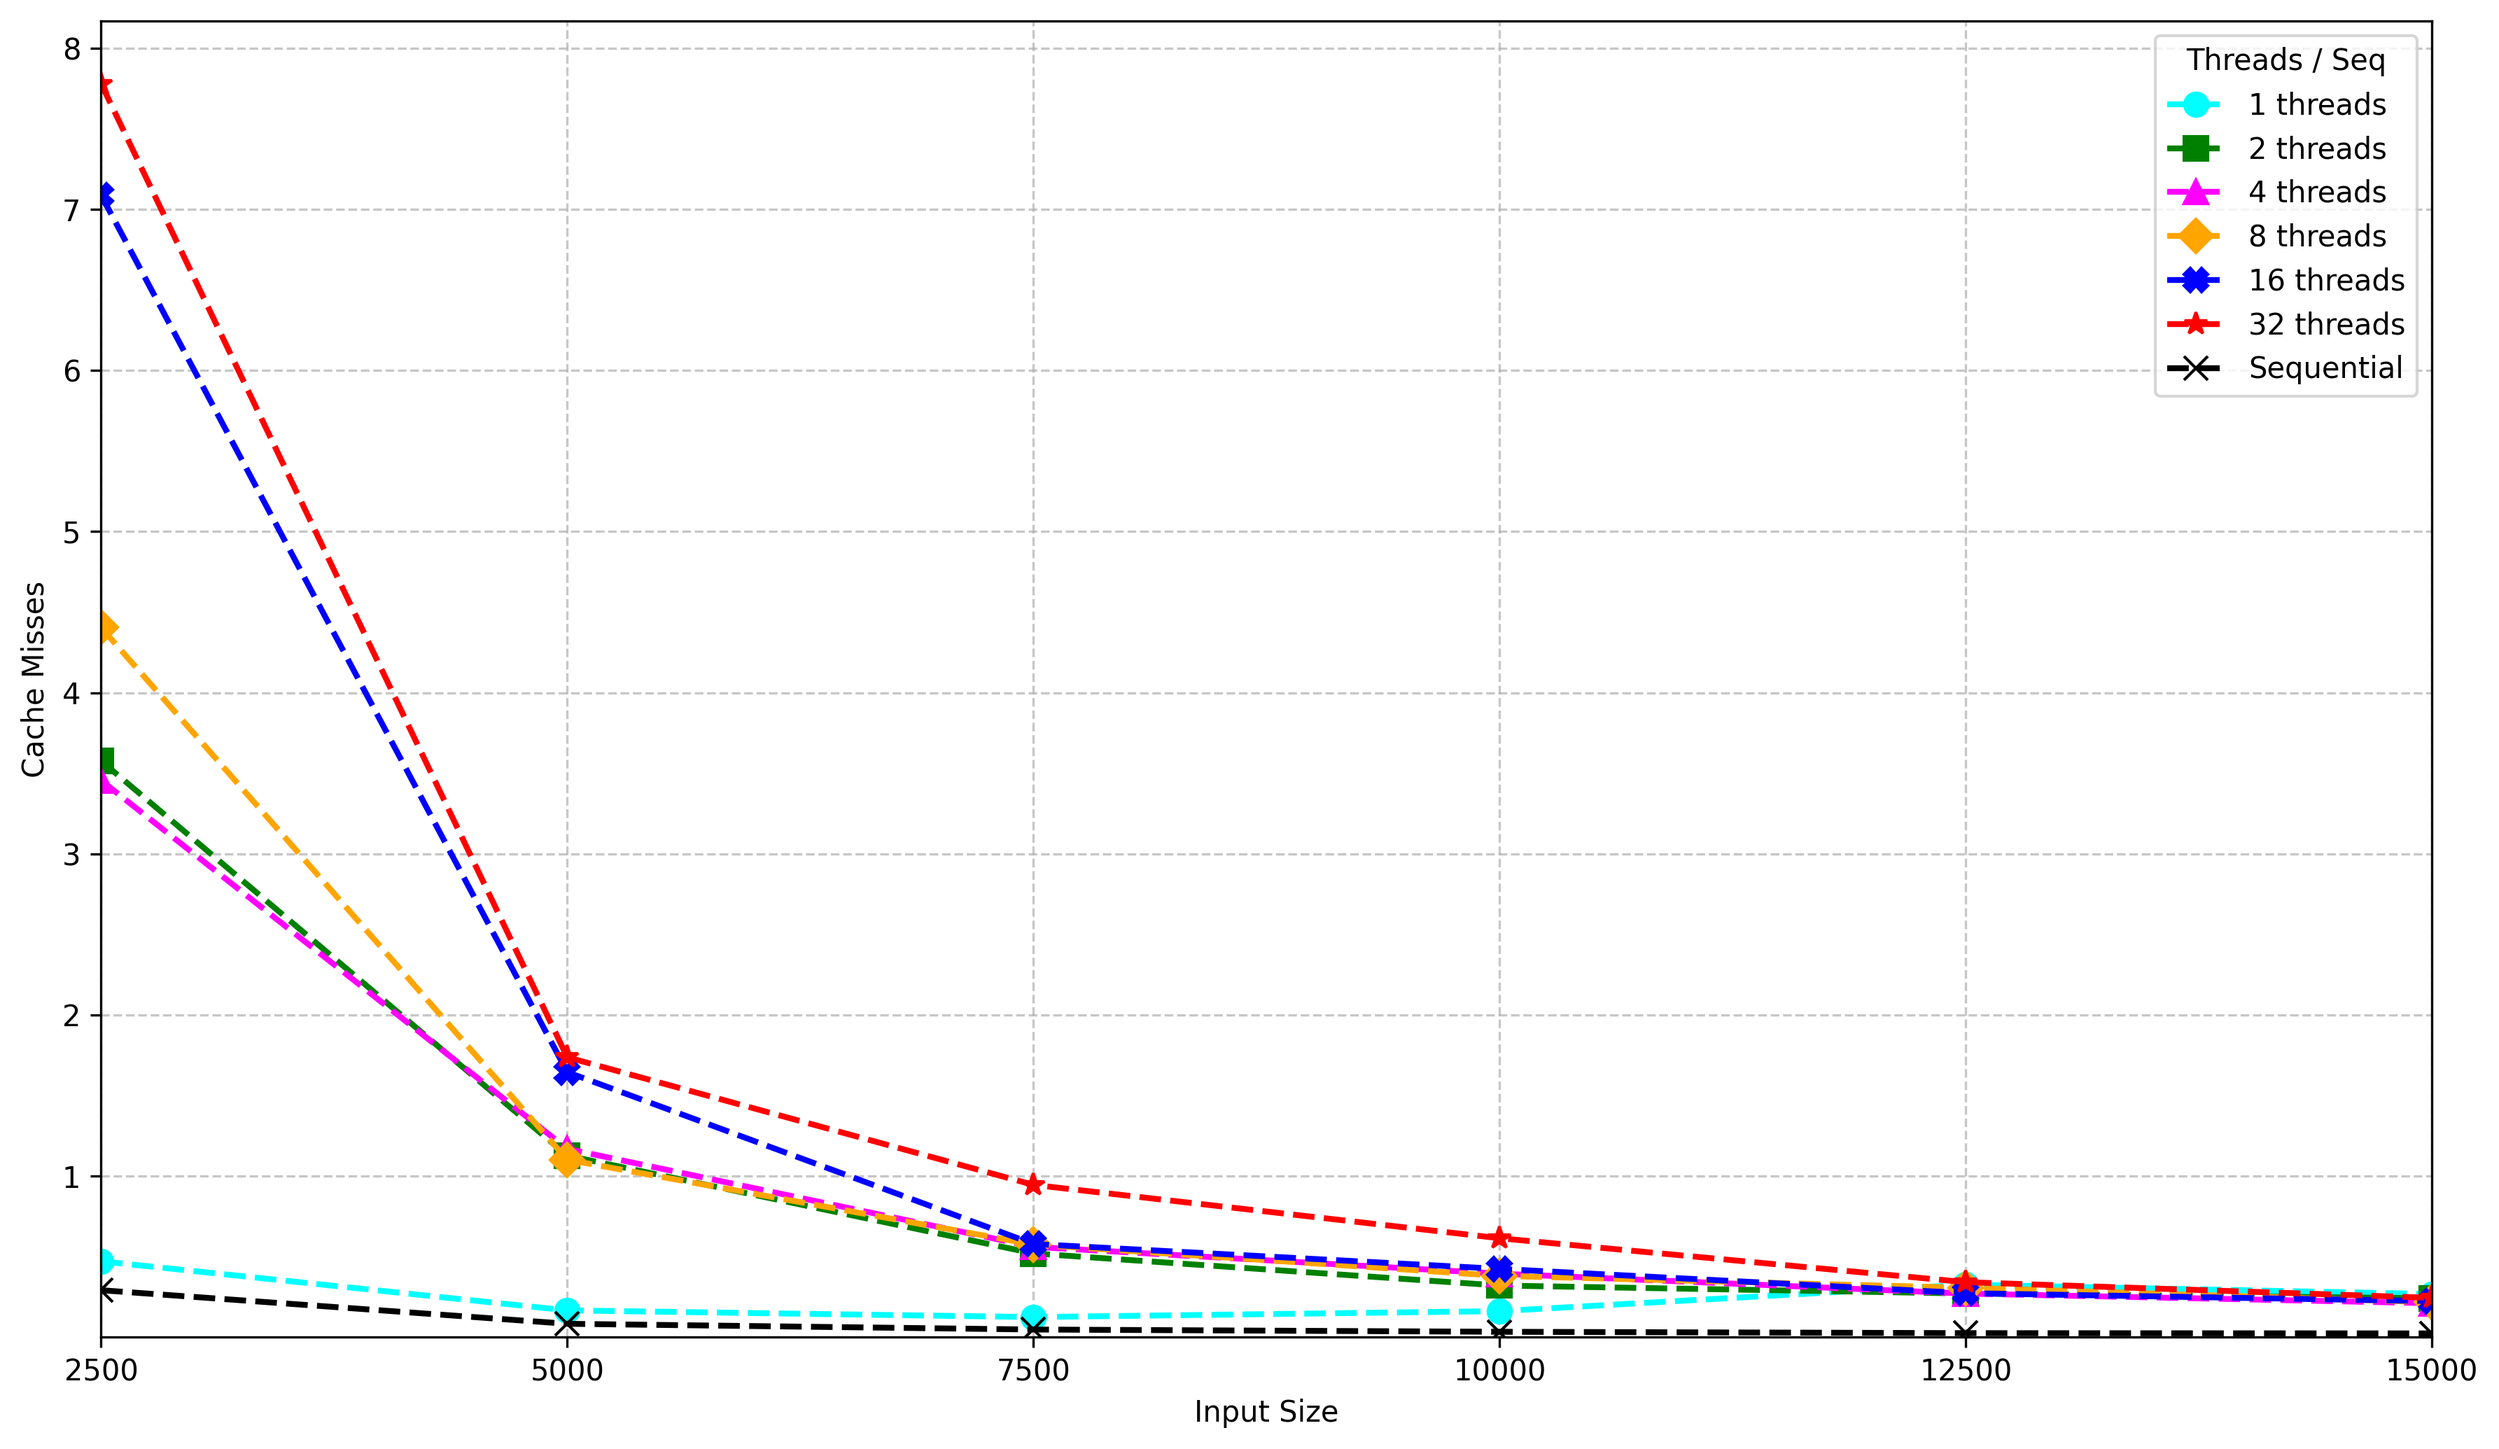
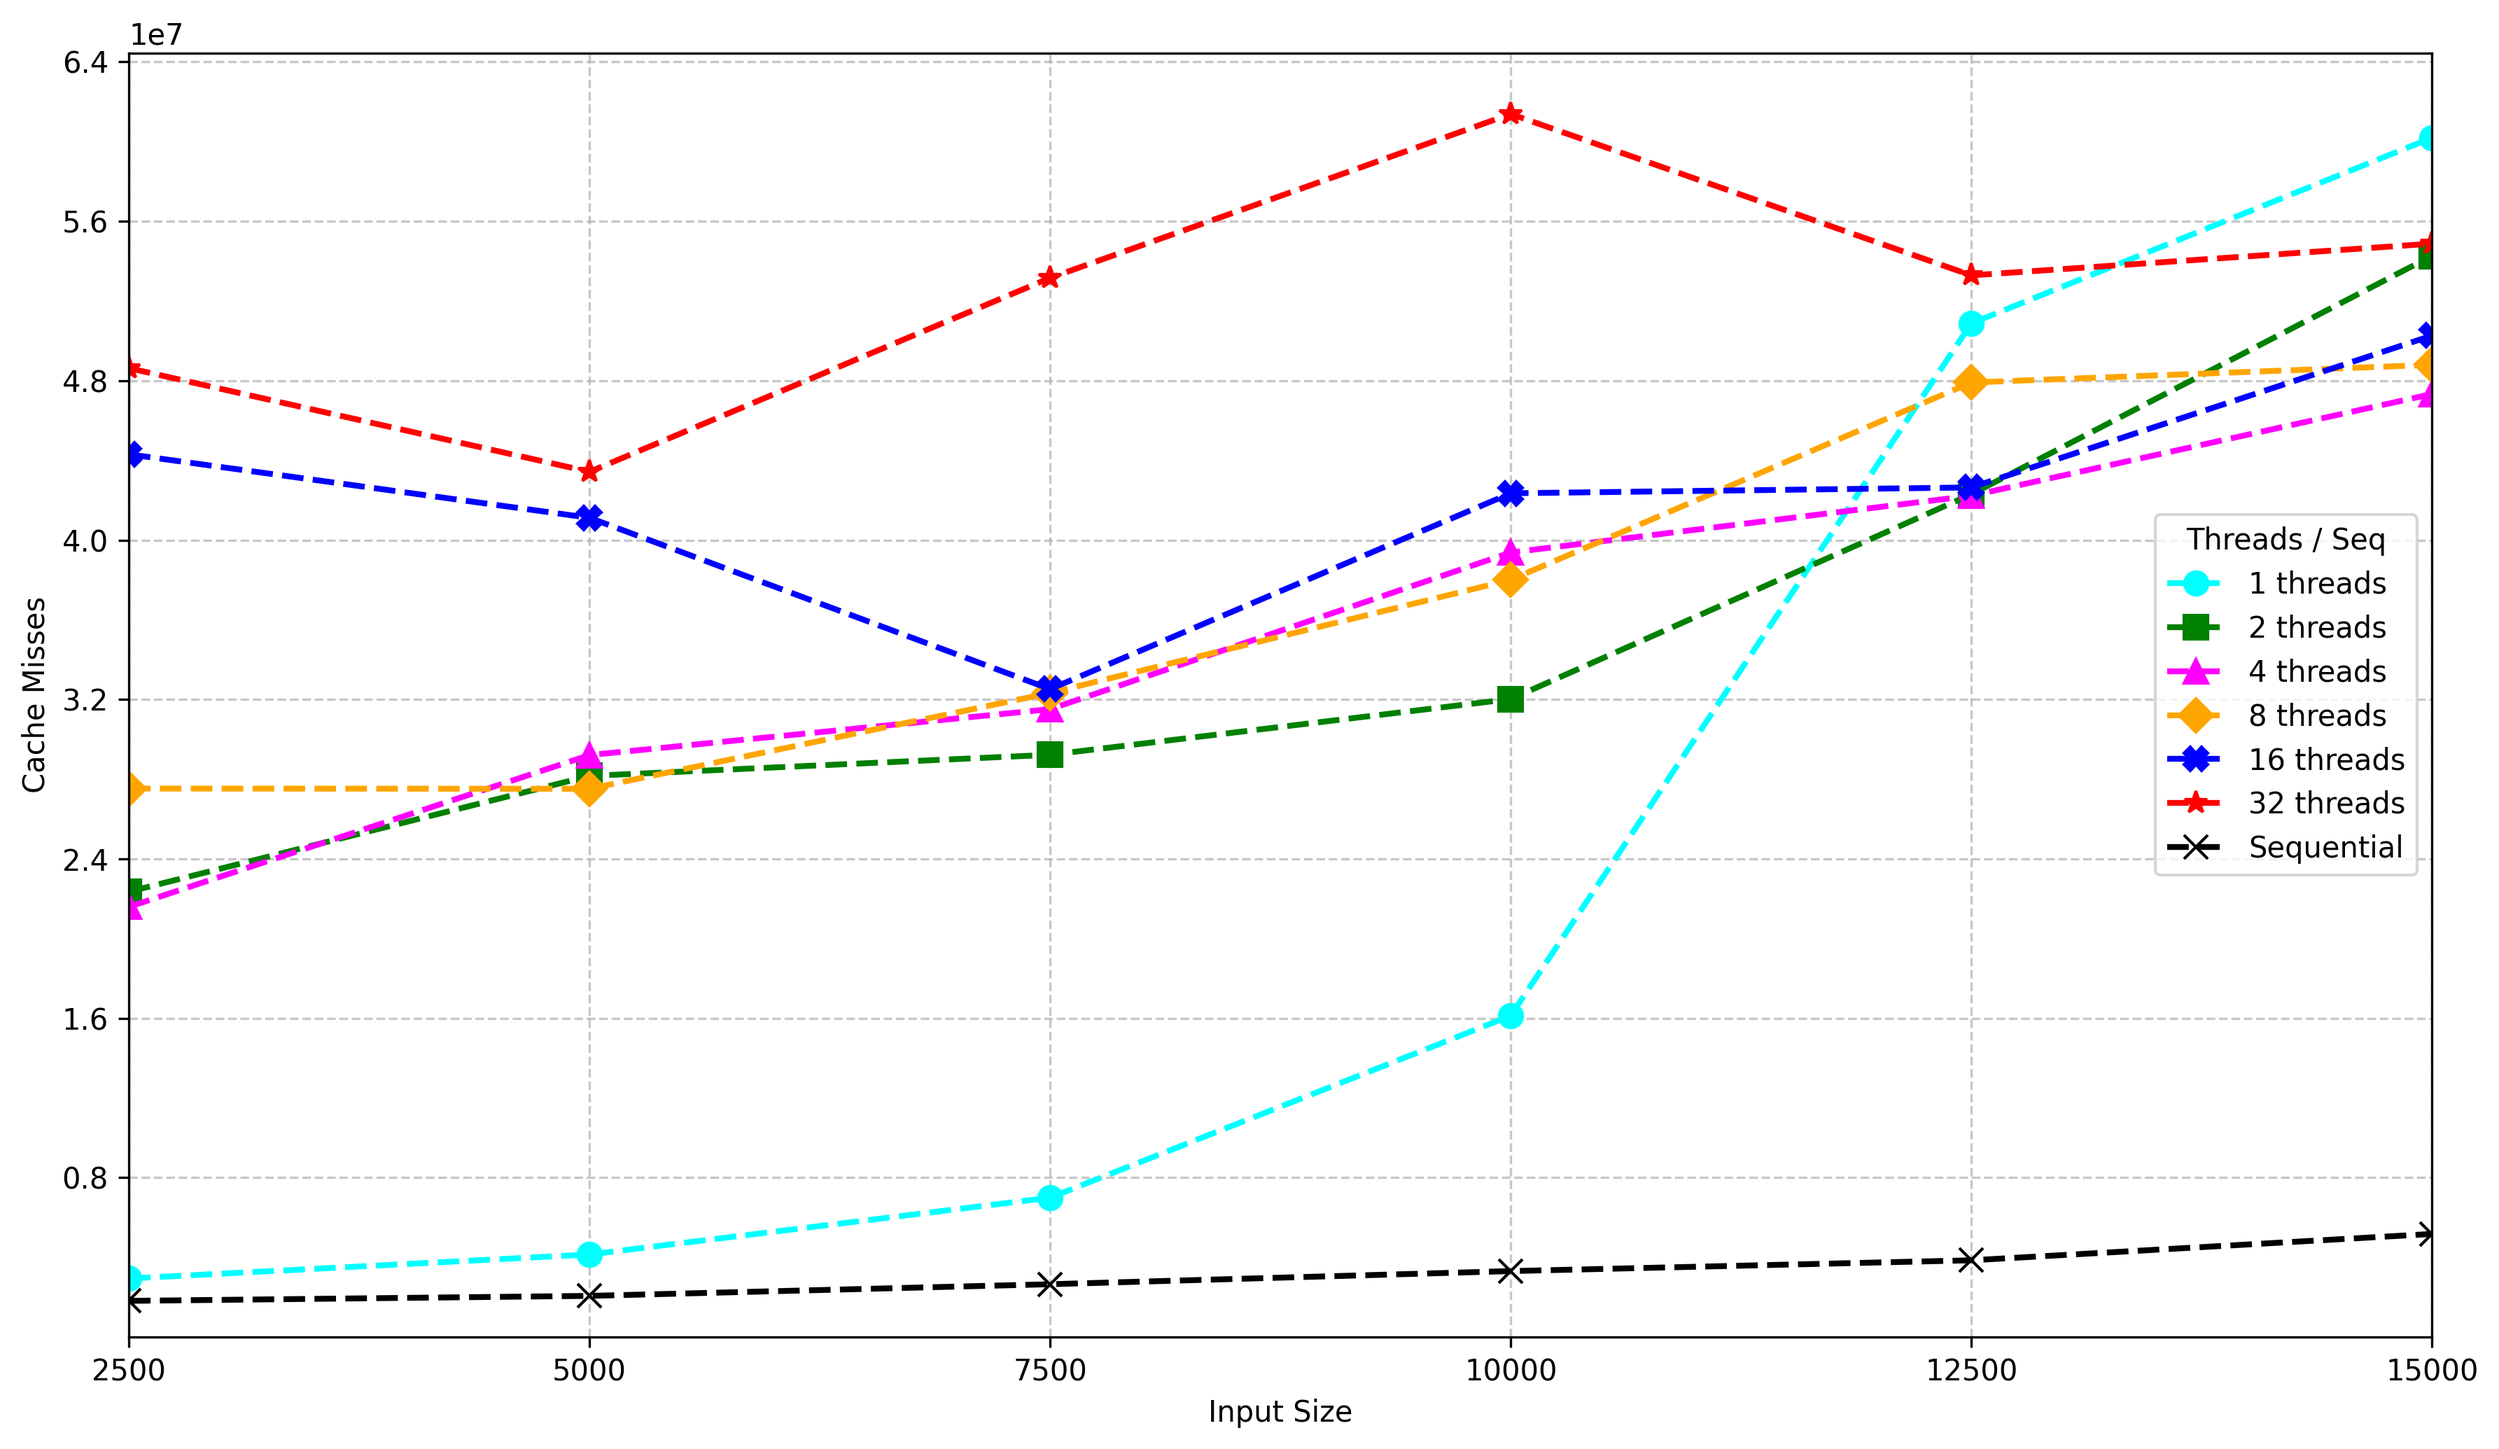
cache misses now displayed as raw cache misses and cache misses divided by input^2

diff --git a/Assignment2/plots/new_plot_stuff.py b/Assignment2/plots/new_plot_stuff.py
@@ -911,7 +911,15 @@ output_dir=None, independent_metrics=None, metrics_to_normalize_by_input=None):
 
         # --- labels & styling ---
         ax.set_xlabel("Input Size")
-        ax.set_ylabel(metric.replace("_", " ").title())
+
+        base_ylabel = metric.replace("_", " ").title()
+        if metric in metrics_to_normalize_by_input:
+            # Use 'per input^2' as per the normalization comment
+            final_ylabel = base_ylabel + " per input^2"
+        else:
+            final_ylabel = base_ylabel
+        ax.set_ylabel(final_ylabel)
+        
         ax.set_xticks(list(x_index.values()))
         ax.set_xticklabels(input_sizes)
         ax.set_xlim(0, len(input_sizes) - 1)
@@ -927,7 +935,11 @@ output_dir=None, independent_metrics=None, metrics_to_normalize_by_input=None):
         fig.tight_layout()
 
         # --- save ---
-        parts = [date_prefix, data_label, metric + ".png"] if date_prefix else [data_label, metric + ".png"]
+        metric_filename_part = metric
+        if metric in metrics_to_normalize_by_input:
+             metric_filename_part = metric + "_per_input"
+
+        parts = [date_prefix, data_label, metric_filename_part + ".png"] if date_prefix else [data_label, metric_filename_part + ".png"]
         filename = "_".join(p for p in parts if p)
         outdir = output_dir or plots_results_folder_time
         os.makedirs(outdir, exist_ok=True)
